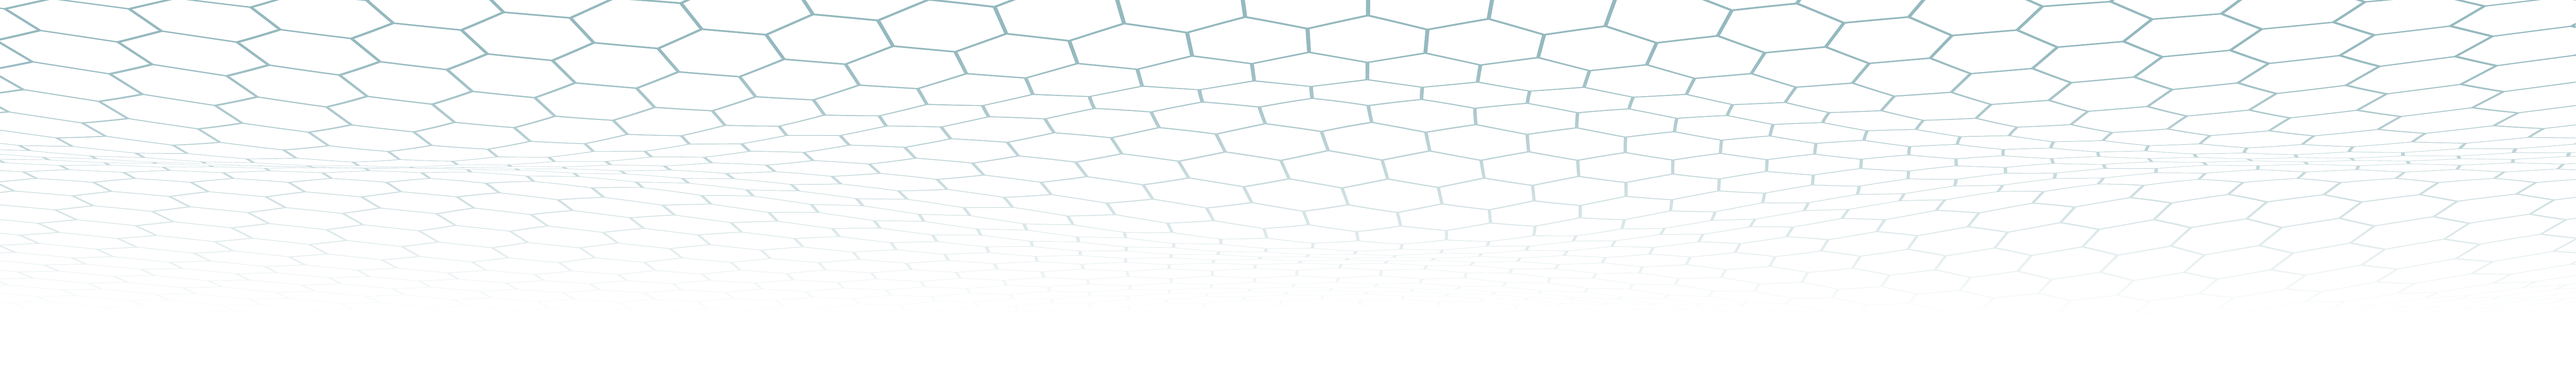
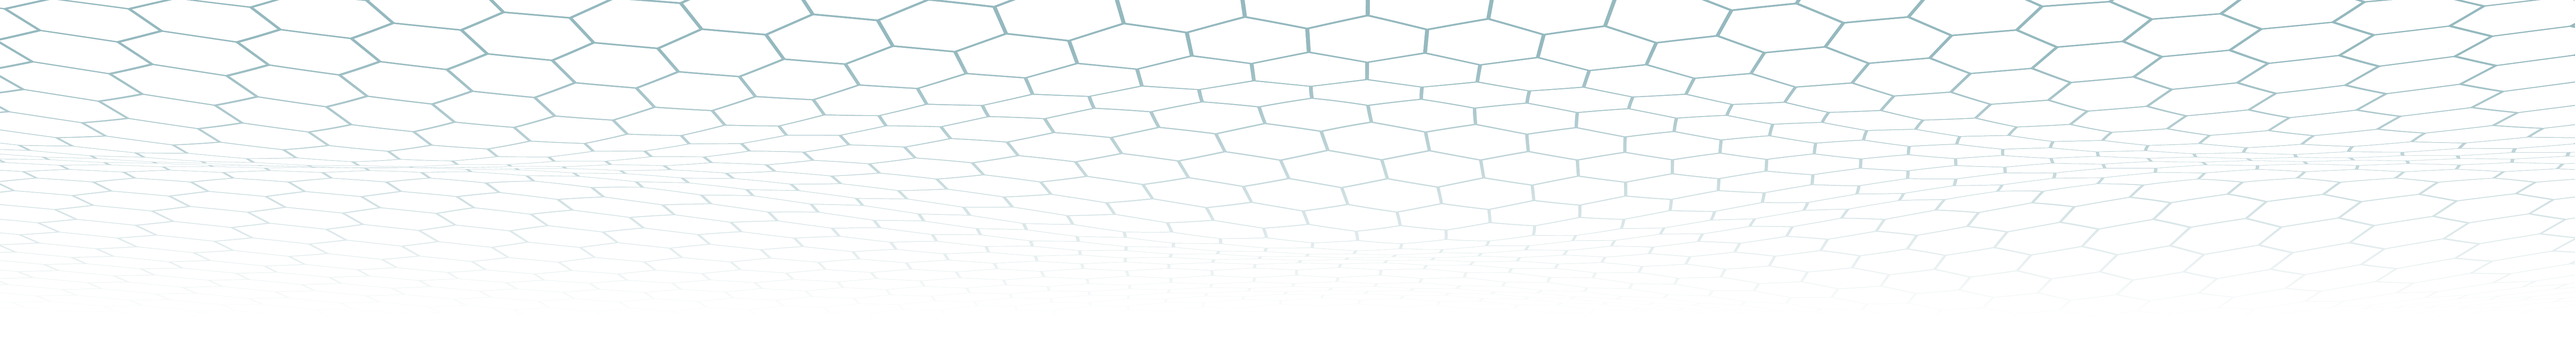
updated SEO for new pages; edited background image for page top to make it look nicer

diff --git a/assets/css/main.css b/assets/css/main.css
@@ -60,6 +60,14 @@ b.redbold {color: #cc0000;} /* Does this fit with color scheme? */
 /* All pages: image background color for transparent images */
 .wrapper.style1 .image.fit {background-color: #FFF;}
 .wrapper.style2 .image.fit {background-color: #3498db;}
+/* All pages except index/contact: show background at the top of page */
+.wrapper.pagetop {
+	margin-top: -44px; padding: calc(2em + 44px) 0 1em 0;
+	background-image: url("../images/hexagonal_bg_top_cropped.png");
+	background-position: center top;
+	background-size: cover;
+}
+.wrapper.pagetop .align-center, .wrapper.style1.logos h1 {margin: 0;}
 
 /* News items on index page */
 .indexnews {display: flex; flex-direction: column; justify-content: space-between; align-items: center; margin-bottom: 1em;}
@@ -85,8 +93,6 @@ b.redbold {color: #cc0000;} /* Does this fit with color scheme? */
 /* Partner logos list at top of Founders/Organization pages */
 .flex.flex-8 {width:80%; margin:0 auto;}
 .flex.flex-8 .col {width: 7%;}
-.wrapper.pagetop {padding: 2em 0 1em 0; background: url("../images/hexagonal_bg_top_cropped.png") center top/cover;}
-.wrapper.pagetop .align-center, .wrapper.style1.logos h1 {margin: 0;}
 a.partneranchor {display: block; position: relative; top: -73px; visibility: hidden;}
 
 /* Partner List on Founders page */

diff --git a/organization/index.php b/organization/index.php
@@ -7,7 +7,7 @@
 <html>
 <head>
 	<title>Organization - NeurotechEU</title>
-	<meta name="description" content="" />
+	<meta name="description" content="A central goal of NeurotechEU is the continuous integration of education, research and innovation." />
 	<meta name="robots" content="index,follow" />
 	<?php include $_SERVER['DOCUMENT_ROOT'] . "/assets/html/commonhead.html"; ?>
 </head>
@@ -25,7 +25,7 @@
 
 			<header class="align-center">
 				<h1>Organization</h1>
-				<b><p>Click on the logos to view the teams from each founding partner</p></b>
+				<b><p>Click on the logos to view the teams from each founding university</p></b>
 			</header>
 
 			<div class="flex flex-8">

diff --git a/synergy.php b/synergy.php
@@ -7,7 +7,7 @@
 <html>
 <head>
 	<title>Synergy & Excellence in NeurotechEU</title>
-	<meta name="description" content="The NeurotechEU founding partners have a long history of collaboration. Read all about the synergy and excellence within our network." />
+	<meta name="description" content="The NeurotechEU founding partners have a long history of collaboration in neurotech and related areas. Read all about the synergy and excellence within our network." />
 	<meta name="robots" content="index,follow" />
 	<?php include $_SERVER['DOCUMENT_ROOT'] . "/assets/html/commonhead.html"; ?>
 	<script src="/assets/js/synergy_figures.js"></script>

diff --git a/organization/key-personnel.php b/organization/key-personnel.php
@@ -7,7 +7,7 @@
 <html>
 <head>
 	<title>Key personnel - NeurotechEU</title>
-	<meta name="description" content="" />
+	<meta name="description" content="Behind NeurotechEU is a team of 100+ academic and administrative staff from all founding universities. Find out who are involved." />
 	<meta name="robots" content="index,follow" />
 	<?php include $_SERVER['DOCUMENT_ROOT'] . "/assets/html/commonhead.html"; ?>
 </head>

diff --git a/promise.php b/promise.php
@@ -7,7 +7,7 @@
 <html>
 <head>
 	<title>NeurotechEU Promise</title>
-	<meta name="description" content="" />
+	<meta name="description" content="NeurotechEU is designed by students, for students, and implements the Erasmus+ Student Charter code." />
 	<meta name="robots" content="index,follow" />
 	<?php include $_SERVER['DOCUMENT_ROOT'] . "/assets/html/commonhead.html"; ?>
 </head>
